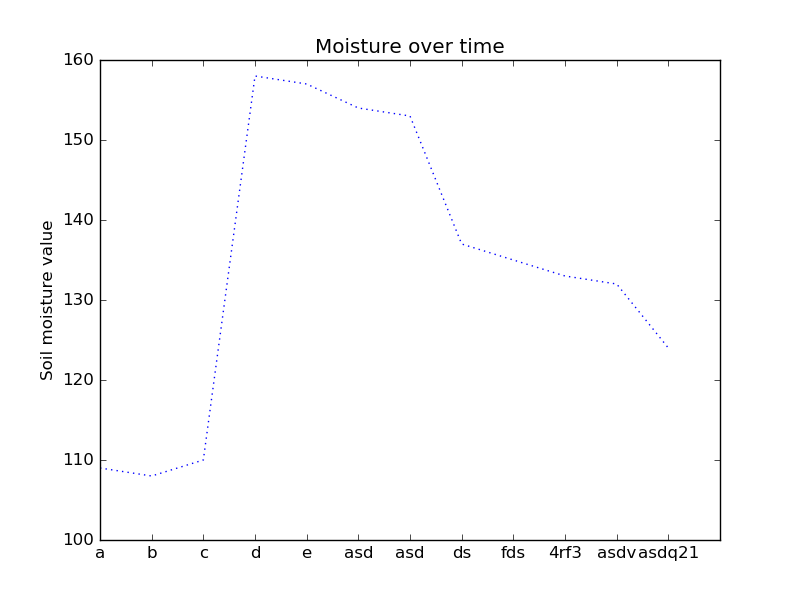
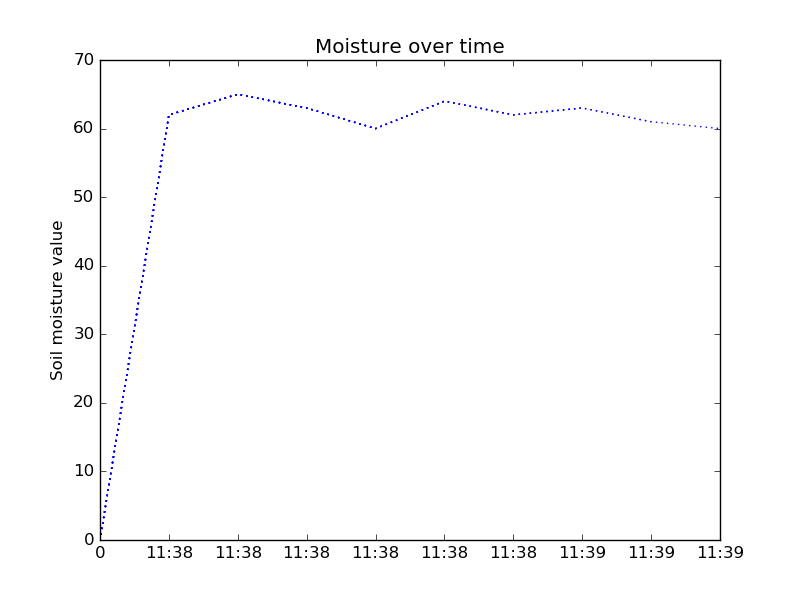
add time

diff --git a/bluetooth-socket.py b/bluetooth-socket.py
@@ -19,14 +19,14 @@ while True:
 		s.connect((serverMACAddress,port))
 		s.send('1')
 		f = s.makefile()
-		data = f.readline()
-	
+		data = str(f.readline())
+
 		print data
 		f = open('plotVal','a')
 		sendStr = ""
-		sendStr += str(data)
-		sendStr += " "
 		sendStr += str(strftime("%H:%M", gmtime()))
+		sendStr += " "
+		sendStr += str(data)
 		f.write(sendStr) # python will convert \n to os.linesep
 		f.close() # you can omit in most cases as the destructor will call it
 
@@ -40,7 +40,4 @@ while True:
 		print "Caught exception socket.error : %s" % exc
 
 	time.sleep (10)
-        
-
-
 

diff --git a/graph.py b/graph.py
@@ -18,11 +18,14 @@ def plot(pollCount):
         content = f.readlines()
         for row in content:
             tmpStr = row.split(" ")
-            y.append(float(tmpStr[0]))
             try:
-                xDates.append(tmpStr[1])
+                xDates.append(tmpStr[0])
             except:
                 xDates.append("")
+            try:
+                y.append(float(tmpStr[1]))
+            except:
+                y.append(0)
     x = []
     for i in range(len(xDates)):
 	    x.append(i)
